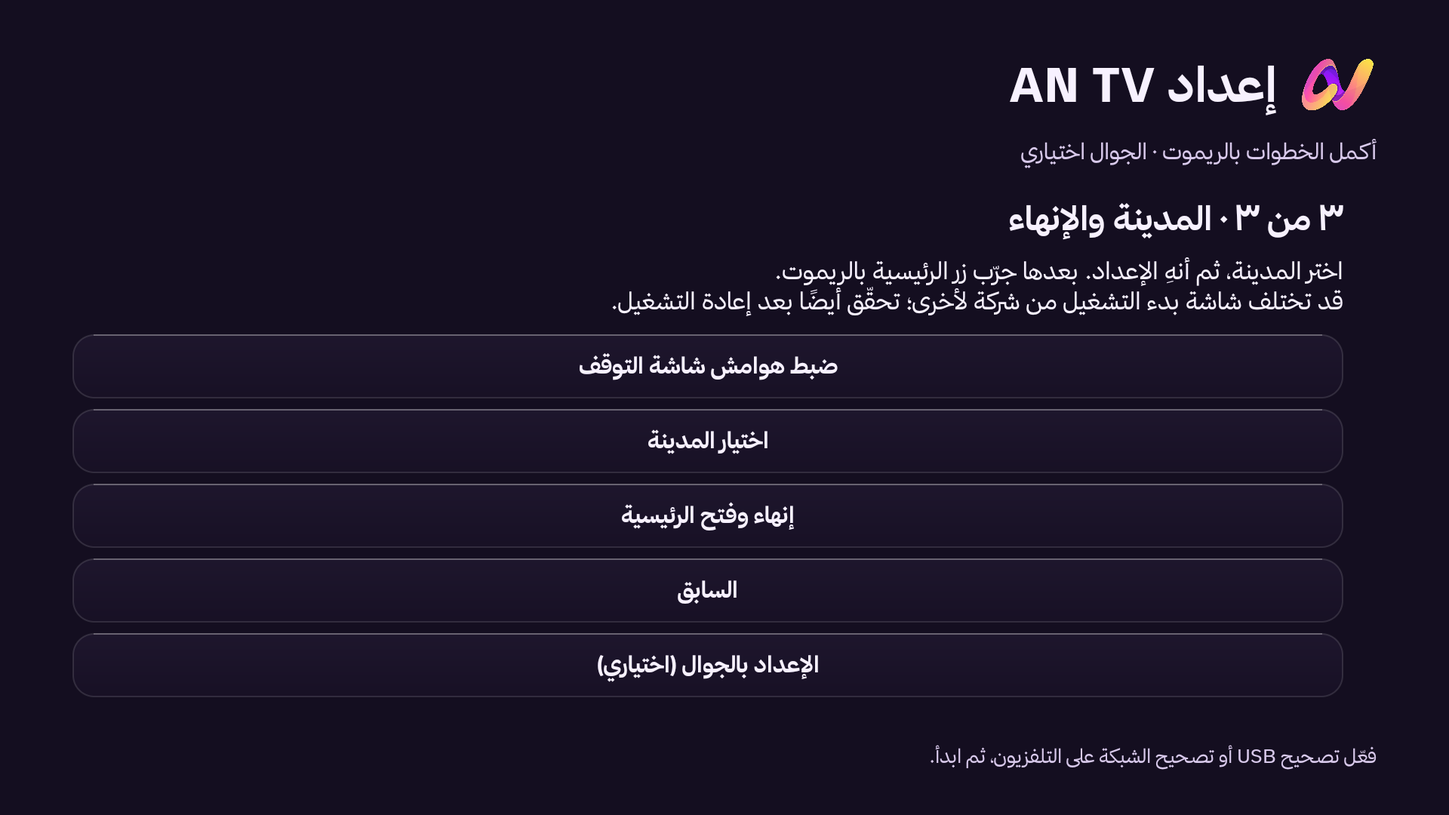
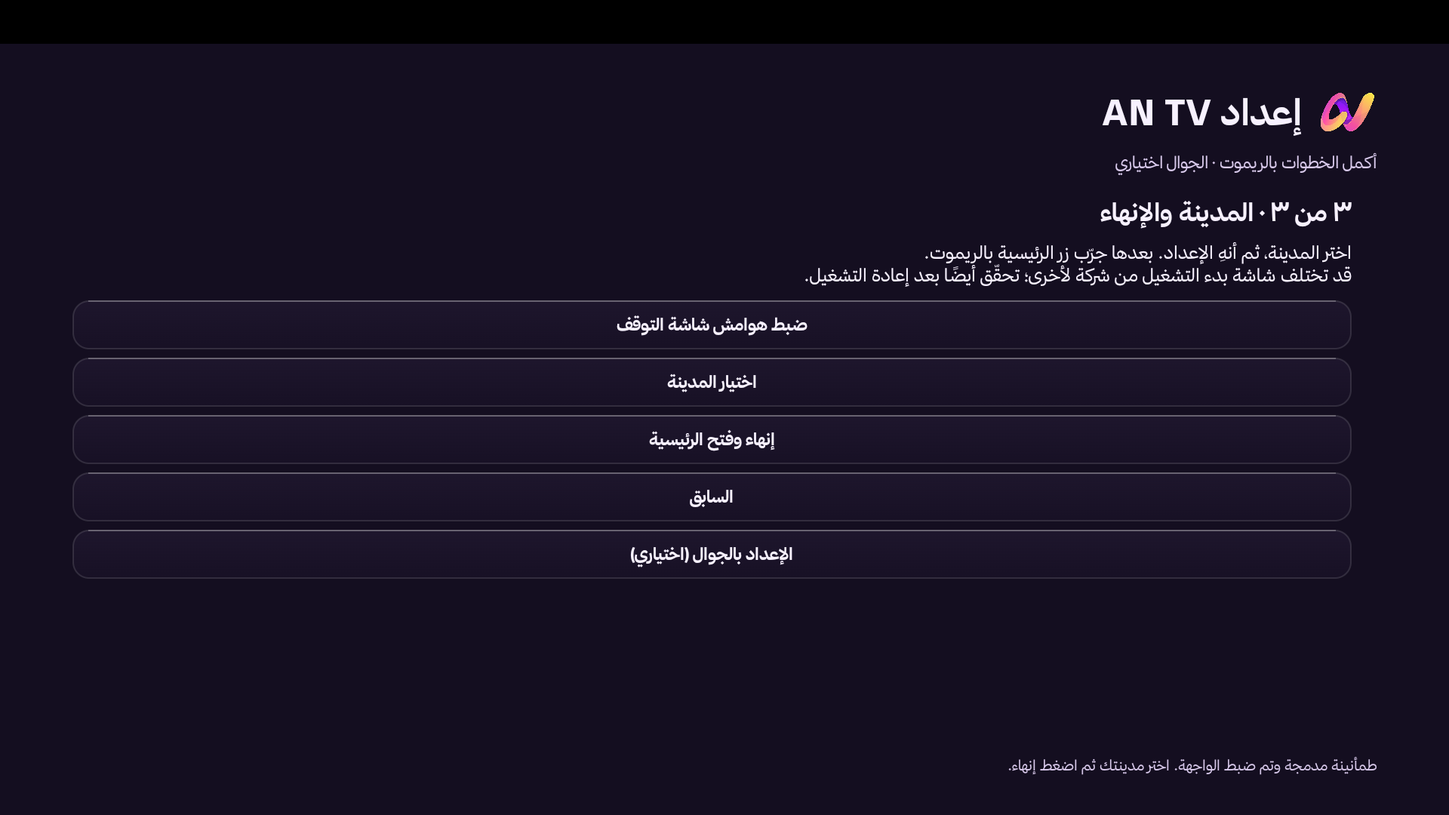
Show verified one-button setup with new application screenshots

diff --git a/docs/index.html b/docs/index.html
@@ -46,14 +46,14 @@
       <p class="sub">ابدأ من التلفزيون والريموت · نحو ٥–١٥ دقيقة بحسب الجهاز والتحميل.</p>
       <div class="download-strip"><span>نزّل AN TV من Downloader</span><div class="downloader-code" aria-label="رمز داونلودر 1982161">1982161</div><span>اكتب الرمز ثم Go وثبّت التطبيق.</span></div>
       <div class="picture-steps">
-        <figure><a href="assets/current-setup.png" target="_blank" rel="noopener"><img src="assets/current-setup.png" alt="الخطوة الأولى: تجهيز التلفزيون وفتح خيارات المطور" loading="lazy"></a><figcaption><span class="step-index">١</span><div><h3>فعّل التصحيح</h3><p>افتح AN TV ← خيارات المطور، فعّل التصحيح ثم ارجع.</p></div></figcaption></figure>
-        <figure><a href="assets/current-setup-2.png" target="_blank" rel="noopener"><img src="assets/current-setup-2.png" alt="الخطوة الثانية: اختيار اتصال التصحيح وتفعيل AN TV" loading="lazy"></a><figcaption><span class="step-index">٢</span><div><h3>جهّز الواجهة</h3><p>اختر طريقة الاتصال، ثم <span style="white-space:nowrap">«جهّز AN TV»</span> ووافق على رسالة التصحيح.</p></div></figcaption></figure>
+        <figure><a href="assets/current-setup.png" target="_blank" rel="noopener"><img src="assets/current-setup.png" alt="الخطوة الأولى: بدء تجهيز AN TV بزر واحد" loading="lazy"></a><figcaption><span class="step-index">١</span><div><h3>افتح واضغط جهّز</h3><p>افتح AN TV واضغط «جهّز AN TV»؛ يحاول الاتصال مباشرة.</p></div></figcaption></figure>
+        <figure><a href="assets/current-setup-2.png" target="_blank" rel="noopener"><img src="assets/current-setup-2.png" alt="الخطوة الثانية: مراجعة خطة التجهيز قبل الموافقة" loading="lazy"></a><figcaption><span class="step-index">٢</span><div><h3>جهّز الواجهة</h3><p>وافق على رسالة التصحيح، ثم راجع الخطة واضغط «ابدأ التجهيز».</p></div></figcaption></figure>
         <figure><a href="assets/current-setup-3.png" target="_blank" rel="noopener"><img src="assets/current-setup-3.png" alt="الخطوة الثالثة: اختيار المدينة وإنهاء الإعداد وفتح الرئيسية" loading="lazy"></a><figcaption><span class="step-index">٣</span><div><h3>اختر مدينتك، وانتهينا</h3><p>بعد نجاح التجهيز اختر المدينة، ثم «إنهاء وفتح الرئيسية». جرّب زر Home.</p></div></figcaption></figure>
       </div>
-      <p class="guide-note">اضغط الصورة لتكبيرها. قد يظهر زر التجهيز باسم «تفعيل AN TV» في النسخ الأقدم. أدخل رمز اقتران فقط إذا عرضه التلفزيون.</p>
+      <p class="guide-note">اضغط الصورة لتكبيرها. تشغيل التصحيح مطلوب أول مرة؛ افتح خيارات المطور إذا لم يكن مفعّلًا. اللقطات من التطبيق على محاكي Android 14.</p>
       <details class="help-fold"><summary>تريد استخدام الجوال أو الكمبيوتر؟</summary><div class="alternative-grid"><div><h3>من الجوال · ١٠–٢٠ دقيقة</h3><p>نفس واي فاي التلفزيون ← افتح «الإعداد بالجوال» داخل AN TV ← امسح QR وأكمل. الموافقة على التصحيح تكون بالريموت.</p><p>لنقل الملف بدل Downloader: استخدم LocalSend إذا كان متاحًا على الجهازين.</p></div><div><h3>من الكمبيوتر · ١٠–٢٥ دقيقة</h3><p>نفس الشبكة ← أدوات Android Platform Tools ← اتصال ADB وتثبيت AN-TV.apk ← أكمل التجهيز من التلفزيون.</p><p>الأوامر والاقتران اللاسلكي في التفاصيل أدناه.</p></div></div></details>
       <details class="help-fold"><summary>تعطّل التثبيت أو لم تظهر رسالة السماح؟</summary><p>أعد تشغيل التلفزيون وجرّب التجهيز مجددًا. بعض الأجهزة تحتاج اقترانًا لاسلكيًا أو كمبيوترًا مرة واحدة. إذا ظهر «تطبيق ضار ومحظور»، أرسل صورة التحذير لفحص السبب؛ هذه المشكلة لم يُؤكد حلها بعد.</p></details>
-      <details class="help-fold"><summary>الشرح الكامل والأوامر والاستعادة والإزالة</summary><div class="full-guide"><h3>اختر الطريقة</h3><div style="overflow:auto"><table><tr><td>الطريقة</td><td>المطلوب</td><td>الوقت التقريبي</td></tr><tr><td>التلفزيون وحده</td><td>ريموت، إنترنت، Downloader، وتصحيح متاح</td><td>5–15 دقيقة</td></tr><tr><td>الجوال</td><td>أندرويد أو آيفون؛ نفس شبكة التلفزيون للتحكم المحلي</td><td>10–20 دقيقة</td></tr><tr><td>الكمبيوتر</td><td>Windows أو Mac أو Linux، وأدوات ADB عند الحاجة</td><td>10–25 دقيقة</td></tr></table></div><p>الأوقات تقديرية وقد تزيد عند تنزيل الملف أو حل مشكلة التصحيح. هذه تقديرات AN TV وليست قياسات لجميع الموديلات. تثبيت APK خطوة، وتفعيل الرئيسية وشاشة التوقف خطوة تالية.</p><h3>1 — من التلفزيون نفسه</h3><p>1. افتح إعدادات التلفزيون ثم النظام أو تفضيلات الجهاز، ثم لمحة/حول.</p><p>2. اضغط على رقم الإصدار Build سبع مرات حتى تظهر خيارات المطور.</p><p>3. افتح خيارات المطور وفعّل تصحيح USB أو ADB. إذا كان الجهاز يعرض تصحيحًا لاسلكيًا برمز، استخدم مسار الاقتران بدل افتراض المنفذ 5555.</p><p>4. نزّل Downloader من متجر التلفزيون. اكتب الرمز <strong>1982161</strong> ثم Go. هذا رمز AN TV.</p><p>5. اسمح لـ Downloader بتثبيت التطبيقات عندما يطلب النظام ذلك، وثبّت AN TV ثم افتحه.</p><p>6. يظهر الموديل وإصدار Android في معالجنا. اختر طريقة التصحيح التي يعرضها جهازك؛ لا تدخل رمزًا إن لم يعرض الجهاز رمز اقتران.</p><p>7. اضغط <span style="white-space:nowrap">«جهّز AN TV»</span>، واقرأ الخطة، ثم «ابدأ التجهيز».</p><p>8. وافق على رسالة السماح بالتصحيح من AN TV Setup. يبقى المعالج مفتوحًا أثناء العمل.</p><p>9. يحفظ المعالج اختيار الرئيسية وشاشة التوقف ومدة الخمول السابقة، ثم يضبط AN TV ويتحقق من الاختيارين. هذه نسخة إعدادات رجوع، وليست نسخة كاملة لنظام التشغيل.</p><p>10. بعد النجاح اختر منطقتك ومدينتك، ثم «إنهاء وفتح الرئيسية».</p><p>11. اختبر زر Home، ومعاينة شاشة التوقف، ثم استمرار الواجهة بعد إعادة تشغيل الجهاز.</p><p>12. افتح إعدادات AN TV ← تنبيه الأذان، وامنح إذن الظهور فوق التطبيقات، واختر المؤذن وطريقة التنبيه، ثم اختبر المعاينة بالصوت.</p><p>إذا لم تظهر رسالة التصحيح، أعد تشغيل التلفزيون وافتح معالج الإعداد مرة أخرى. بعض الأجهزة لا تفتح ADB عبر الشبكة بمجرد تفعيل USB؛ تحتاج اقترانًا لاسلكيًا أو كمبيوترًا مرة واحدة. لا توجد طريقة مضمونة لكل الموديلات.</p><h3>2 — من الجوال</h3><h4>النقل والتحكم من أندرويد أو آيفون</h4><p>1. اتصل بالجوال والتلفزيون بنفس شبكة المنزل، دون شبكة ضيوف معزولة.</p><p>2. الأسهل تنزيل التطبيق بـ Downloader على التلفزيون. البديل: نزّل APK من صفحة AN TV، وانقله عبر LocalSend إذا كان متاحًا على الجهازين، ثم افتحه على التلفزيون وثبّته.</p><p>3. افتح معالج إعداد AN TV على التلفزيون واضغط «الإعداد بالجوال (اختياري)».</p><p>4. امسح QR وافتح الرابط المحلي، وأدخل رمز الإعداد الظاهر إن طُلب.</p><p>5. من الصفحة افتح خيارات المطور على التلفزيون، وفعّل التصحيح بالريموت. ارجع للمعالج وأدخل بيانات الاقتران فقط إذا كان جهازك يعرضها.</p><p>6. نفّذ التفعيل، ووافق على رسالة التصحيح بالريموت، ثم اختر المدينة وأنهِ الإعداد.</p><p>7. إذا تعذر فتح الرابط: أبقِ المعالج مفتوحًا، واسمح بالوصول للشبكة المحلية عند طلب المتصفح، وتأكد من عدم عزل الأجهزة في الراوتر. يمكنك إكمال كل الخطوات بالريموت.</p><p>التحكم المحلي لا يحتاج حسابًا أو اشتراكًا. يحتاج نفس الشبكة؛ نقل الصور خدمة مختلفة عن إعداد التثبيت.</p><h4>إذا لم يستطع التلفزيون إجراء اتصال ADB محلي</h4><p>على أندرويد يمكن استخدام Termux مع حزمة android-tools للاتصال بالجهاز. على الكمبيوتر تُستخدم Android Platform Tools. إذا ظهر اقتران لاسلكي:</p><pre dir="ltr"><code>adb pair TV_IP:PAIR_PORT
+      <details class="help-fold"><summary>الشرح الكامل والأوامر والاستعادة والإزالة</summary><div class="full-guide"><h3>اختر الطريقة</h3><div style="overflow:auto"><table><tr><td>الطريقة</td><td>المطلوب</td><td>الوقت التقريبي</td></tr><tr><td>التلفزيون وحده</td><td>ريموت، إنترنت، Downloader، وتصحيح متاح</td><td>5–15 دقيقة</td></tr><tr><td>الجوال</td><td>أندرويد أو آيفون؛ نفس شبكة التلفزيون للتحكم المحلي</td><td>10–20 دقيقة</td></tr><tr><td>الكمبيوتر</td><td>Windows أو Mac أو Linux، وأدوات ADB عند الحاجة</td><td>10–25 دقيقة</td></tr></table></div><p>الأوقات تقديرية وقد تزيد عند تنزيل الملف أو حل مشكلة التصحيح. هذه تقديرات AN TV وليست قياسات لجميع الموديلات. تثبيت APK خطوة، وتفعيل الرئيسية وشاشة التوقف خطوة تالية.</p><h3>1 — من التلفزيون نفسه</h3><p>1. افتح إعدادات التلفزيون ثم النظام أو تفضيلات الجهاز، ثم لمحة/حول.</p><p>2. اضغط على رقم الإصدار Build سبع مرات حتى تظهر خيارات المطور.</p><p>3. افتح خيارات المطور وفعّل تصحيح USB أو ADB. إذا كان الجهاز يعرض تصحيحًا لاسلكيًا برمز، استخدم مسار الاقتران بدل افتراض المنفذ 5555.</p><p>4. نزّل Downloader من متجر التلفزيون. اكتب الرمز <strong>1982161</strong> ثم Go. هذا رمز AN TV.</p><p>5. اسمح لـ Downloader بتثبيت التطبيقات عندما يطلب النظام ذلك، وثبّت AN TV ثم افتحه.</p><p>6. افتح AN TV واضغط «جهّز AN TV». إذا تعذر الاتصال افتح خيارات المطور أو خيارات الاقتران حسب جهازك.</p><p>7. اضغط <span style="white-space:nowrap">«جهّز AN TV»</span>، واقرأ الخطة، ثم «ابدأ التجهيز».</p><p>8. وافق على رسالة السماح بالتصحيح من AN TV Setup. يبقى المعالج مفتوحًا أثناء العمل.</p><p>9. يحفظ المعالج اختيار الرئيسية وشاشة التوقف ومدة الخمول السابقة، ثم يضبط AN TV ويتحقق من الاختيارين. هذه نسخة إعدادات رجوع، وليست نسخة كاملة لنظام التشغيل.</p><p>10. بعد النجاح اختر منطقتك ومدينتك، ثم «إنهاء وفتح الرئيسية».</p><p>11. اختبر زر Home، ومعاينة شاشة التوقف، ثم استمرار الواجهة بعد إعادة تشغيل الجهاز.</p><p>12. افتح إعدادات AN TV ← تنبيه الأذان، وامنح إذن الظهور فوق التطبيقات، واختر المؤذن وطريقة التنبيه، ثم اختبر المعاينة بالصوت.</p><p>إذا لم تظهر رسالة التصحيح، أعد تشغيل التلفزيون وافتح معالج الإعداد مرة أخرى. بعض الأجهزة لا تفتح ADB عبر الشبكة بمجرد تفعيل USB؛ تحتاج اقترانًا لاسلكيًا أو كمبيوترًا مرة واحدة. لا توجد طريقة مضمونة لكل الموديلات.</p><h3>2 — من الجوال</h3><h4>النقل والتحكم من أندرويد أو آيفون</h4><p>1. اتصل بالجوال والتلفزيون بنفس شبكة المنزل، دون شبكة ضيوف معزولة.</p><p>2. الأسهل تنزيل التطبيق بـ Downloader على التلفزيون. البديل: نزّل APK من صفحة AN TV، وانقله عبر LocalSend إذا كان متاحًا على الجهازين، ثم افتحه على التلفزيون وثبّته.</p><p>3. افتح معالج إعداد AN TV على التلفزيون واضغط «الإعداد بالجوال (اختياري)».</p><p>4. امسح QR وافتح الرابط المحلي، وأدخل رمز الإعداد الظاهر إن طُلب.</p><p>5. من الصفحة افتح خيارات المطور على التلفزيون، وفعّل التصحيح بالريموت. ارجع للمعالج وأدخل بيانات الاقتران فقط إذا كان جهازك يعرضها.</p><p>6. نفّذ التفعيل، ووافق على رسالة التصحيح بالريموت، ثم اختر المدينة وأنهِ الإعداد.</p><p>7. إذا تعذر فتح الرابط: أبقِ المعالج مفتوحًا، واسمح بالوصول للشبكة المحلية عند طلب المتصفح، وتأكد من عدم عزل الأجهزة في الراوتر. يمكنك إكمال كل الخطوات بالريموت.</p><p>التحكم المحلي لا يحتاج حسابًا أو اشتراكًا. يحتاج نفس الشبكة؛ نقل الصور خدمة مختلفة عن إعداد التثبيت.</p><h4>إذا لم يستطع التلفزيون إجراء اتصال ADB محلي</h4><p>على أندرويد يمكن استخدام Termux مع حزمة android-tools للاتصال بالجهاز. على الكمبيوتر تُستخدم Android Platform Tools. إذا ظهر اقتران لاسلكي:</p><pre dir="ltr"><code>adb pair TV_IP:PAIR_PORT
 adb connect TV_IP:CONNECT_PORT
 adb -s TV_IP:CONNECT_PORT tcpip 5555
 </code></pre><p>اكتب رمز الاقتران عند طلبه، واستبدل القيم بما يعرضه التلفزيون. لا تفترض أن منفذ الاتصال يساوي منفذ الاقتران. بعدها جرّب <span style="white-space:nowrap">«جهّز AN TV»</span> بالريموت في وضع الاتصال المباشر. قد يُغلق 5555 بعد إعادة التشغيل.</p><p>على الآيفون، صفحة الإعداد المحلية هي مسارنا الأساسي. تشغيل ADB عبر iSH ليس مسارًا مختبرًا لدينا؛ عند تعذر الاتصال المحلي استخدم أندرويد أو كمبيوتر. لا يُطلب Codex أو اشتراك ذكاء اصطناعي.</p><h3>3 — من الكمبيوتر</h3><p>1. وصّل الكمبيوتر والتلفزيون بنفس الشبكة وثبّت Android Platform Tools من موقع Android الرسمي.</p><p>2. نزّل AN-TV.apk من صفحة تحميلنا. فعّل تصحيح التلفزيون.</p><p>3. للاتصال المباشر نفّذ <code dir="ltr">adb connect TV_IP:5555</code> ووافق على رسالة التلفزيون. للتصحيح اللاسلكي نفّذ أوامر الاقتران الموضحة أعلاه.</p><p>4. ثبّت الملف: <code dir="ltr">adb -s TV_IP:PORT install -r AN-TV.apk</code>.</p><p>5. افتح AN TV من التلفزيون، وأكمل معالج التجهيز واختيار المدينة. إذا احتاج الاتصال المحلي 5555، نفّذ <code dir="ltr">adb -s TV_IP:PORT tcpip 5555</code> قبل العودة للمعالج.</p><p>6. راجع النتيجة بزر Home ومعاينة شاشة التوقف. لا تشغّل سكربتات UrTV القديمة على AN TV؛ قد تستبدل تطبيقاتنا أو إعداداتنا.</p><h3>ماذا يحفظ وماذا يغيّر؟</h3><p>يحفظ معالجنا الرئيسية وشاشة التوقف وتفعيلها ومدة الخمول السابقة. يعيّن AN TV واجهة رئيسية وشاشة توقف، ويمنح الإعدادات اللازمة التي يسمح بها ADB. لا يستبدل Android أو يثبت نظام تشغيل جديدًا، ولا يحذف برامجك، ولا يطبق تنظيف UrTV أو تنزيل متصفح وSmartTube.</p><h3>التراجع والإزالة</h3><p>1. افتح إعداد AN TV؛ يمكن الوصول إليه بالضغط المطول على زر الإعدادات في الرئيسية.</p><p>2. فعّل التصحيح مجددًا عند الحاجة، واضغط «استعادة الواجهة السابقة».</p><p>3. انتظر تأكيد النجاح، واختبر زر Home.</p><p>4. للإزالة استخدم «استعادة الواجهة ثم حذف AN TV»؛ تظهر موافقة الحذف بعد نجاح الاستعادة.</p><p>5. لا تحذف التطبيق قبل الاستعادة إن كنت تريد استخدام نسخة إعدادات الرجوع المحفوظة داخله.</p><h3>التحديث</h3><p>إعدادات AN TV ← تحديث AN TV. التحديث من حزمة المشروع الموقعة نفسها يحافظ عادة على الإعدادات. التثبيت يحتاج موافقة النظام؛ لا نعد بتثبيت صامت على جميع الأجهزة.</p><h3>المشكلات الشائعة</h3><p>- «تطبيق ضار ومحظور»: توقف التثبيت قبل المعالج. أرسل نص التحذير وإصدار الحزمة للفحص ومراجعة تصنيف الحماية. المعالج لا يستطيع إزالة هذا الحظر.</p><p>- «لا توجد أرقام»: اختر الاتصال المباشر فقط إذا كان ADB متاحًا؛ تفعيل USB لا يضمن فتح منفذ الشبكة.</p><p>- «تعذر الاتصال»: تحقق من الشبكة وتفويض التصحيح والمنفذ. جرّب الريموت بدل صفحة الجوال.</p><p>- «تعذر حفظ الواجهة السابقة»: لا يكمل المعالج تغيير الرئيسية دون إعداد رجوع صالح. لا تعتبر العملية ناجحة.</p><p>- «البرنامج يفتح كتطبيق»: لم يكتمل تعيين الرئيسية؛ أكمل التفعيل وتحقق بزر Home.</p><p>- «الأذان لا يظهر»: افتح تنبيه الأذان، فعّل التنبيه وإذن الظهور والمعاينة. راجع المدينة والتوقيت.</p><h3>المؤذنون وطمأنينة</h3><p>طمأنينة هو مدخل التلاوات. اختيار مؤذن تنبيه الصلاة في إعدادات AN TV ← تنبيه الأذان. القائمة الحالية تتضمن عبدالعزيز بن ماجد وأسماء مختارة من مؤذني مكة والمدينة. أسماء القراء في مشغل القرآن ليست قائمة مؤذنين. مصادر التسجيلات موثقة في شاشة مصادر أصوات المؤذنين؛ توجد تسجيلات من Archive.org. لا ننسب تسجيلًا مجهول المؤذن لاسم شيخ.</p><h3>مصدر طريقة التجهيز</h3><p>مبدأ ADB المحلي والتجهيز من التلفزيون مستلهم من توثيق UrTV، مع معالج AN TV وتغييراتنا. إشعارات ترخيص المكونات محفوظة. لا تستخدم رمز تحميل UrTV لتثبيت AN TV.</p></div></details>

diff --git a/docs/AN-TV-INSTALL.md b/docs/AN-TV-INSTALL.md
@@ -19,8 +19,8 @@
 3. افتح خيارات المطور وفعّل تصحيح USB أو ADB. إذا كان الجهاز يعرض تصحيحًا لاسلكيًا برمز، استخدم مسار الاقتران بدل افتراض المنفذ 5555.
 4. نزّل Downloader من متجر التلفزيون. اكتب الرمز **1982161** ثم Go. هذا رمز AN TV.
 5. اسمح لـ Downloader بتثبيت التطبيقات عندما يطلب النظام ذلك، وثبّت AN TV ثم افتحه.
-6. يظهر الموديل وإصدار Android في معالجنا. اختر طريقة التصحيح التي يعرضها جهازك؛ لا تدخل رمزًا إن لم يعرض الجهاز رمز اقتران.
-7. اضغط «جهّز AN TV»، واقرأ الخطة، ثم «ابدأ التجهيز».
+6. افتح AN TV واضغط «جهّز AN TV»؛ يحاول الاتصال المحلي دون إدخال أرقام. إذا تعذر الاتصال افتح خيارات المطور أو خيارات الاقتران حسب جهازك.
+7. وافق على رسالة التصحيح أولًا؛ بعد الاتصال وحفظ إعداد الرجوع تُعرض الخطة، ثم اضغط «ابدأ التجهيز».
 8. وافق على رسالة السماح بالتصحيح من AN TV Setup. يبقى المعالج مفتوحًا أثناء العمل.
 9. يحفظ المعالج اختيار الرئيسية وشاشة التوقف ومدة الخمول السابقة، ثم يضبط AN TV ويتحقق من الاختيارين. هذه نسخة إعدادات رجوع، وليست نسخة كاملة لنظام التشغيل.
 10. بعد النجاح اختر منطقتك ومدينتك، ثم «إنهاء وفتح الرئيسية».
